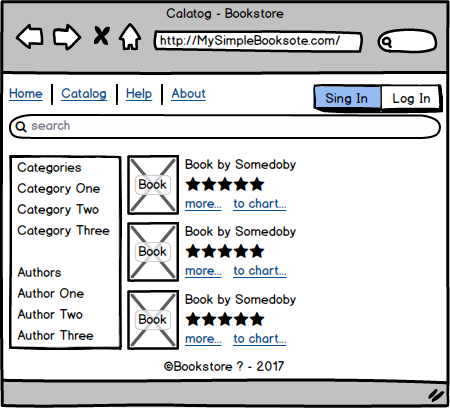
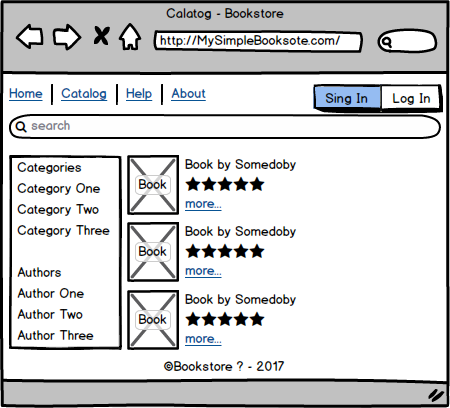
Mistakes were corrected

Changed region(s): [[0.4978, 0.4706, 0.6533, 0.5294], [0.4978, 0.8235, 0.6533, 0.8529], [0.4978, 0.6471, 0.6222, 0.6765]]

diff --git a/documents/Requirements Document.md b/documents/Requirements Document.md
@@ -25,9 +25,9 @@ Book Page:
 
 ![Book Page](/documents/mockups/Book%20Page.png)
 
-Chart Page:
+Cart Page:
 
-![Chart Page](/documents/mockups/Chart%20Page.png)
+![Cart Page](/documents/mockups/Cart%20Page.png)
 
 Account Page:
 
@@ -36,6 +36,10 @@ Account Page:
 Administrator Account Page:
 
 ![Administrator Account Page](/documents/mockups/Administrator%20Account%20Page.png)
+
+Orders Page:
+
+![Orders Page](/documents/mockups/Orders%20Page.png)
 ### 2.3 User Characteristics
 There are three groups of users: unregistered user (visitors), registered user (customers), administrators.
 #### Visitors and customers
@@ -85,3 +89,5 @@ There are three groups of users: unregistered user (visitors), registered user (
 User can use this application in any time from any place where Internet and a web browser available. Order processing time is various. It depends on administrator working time.
 #### 3.2.2 LOCALIZATION REQUIREMENTS
 The application supports only the English language. But some text (for example book titles, authors name, and book description) can be written in book language.
+### 3.2.3 BUSINESS RULES
+Customer cannot return the order.
